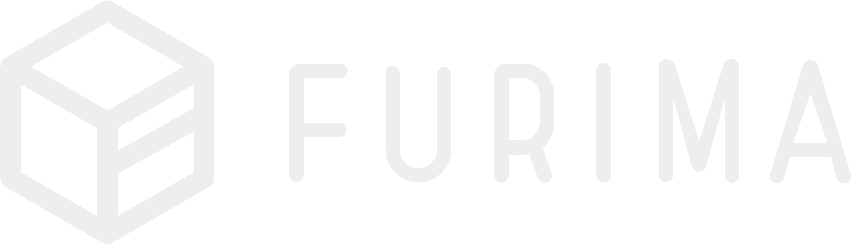
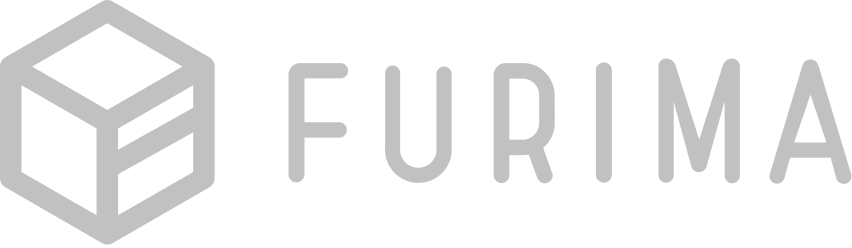
fix tiny bugs

diff --git a/app/assets/stylesheets/_form.scss b/app/assets/stylesheets/_form.scss
@@ -172,7 +172,7 @@ $dark-gray: #2f2f2f;
             }
         }
         .f-logo {
-            background-image: url('gray.png');
+            background-image: url('gray-1.png');
             background-size: cover;
             width: 43px;
             height: 50px;
